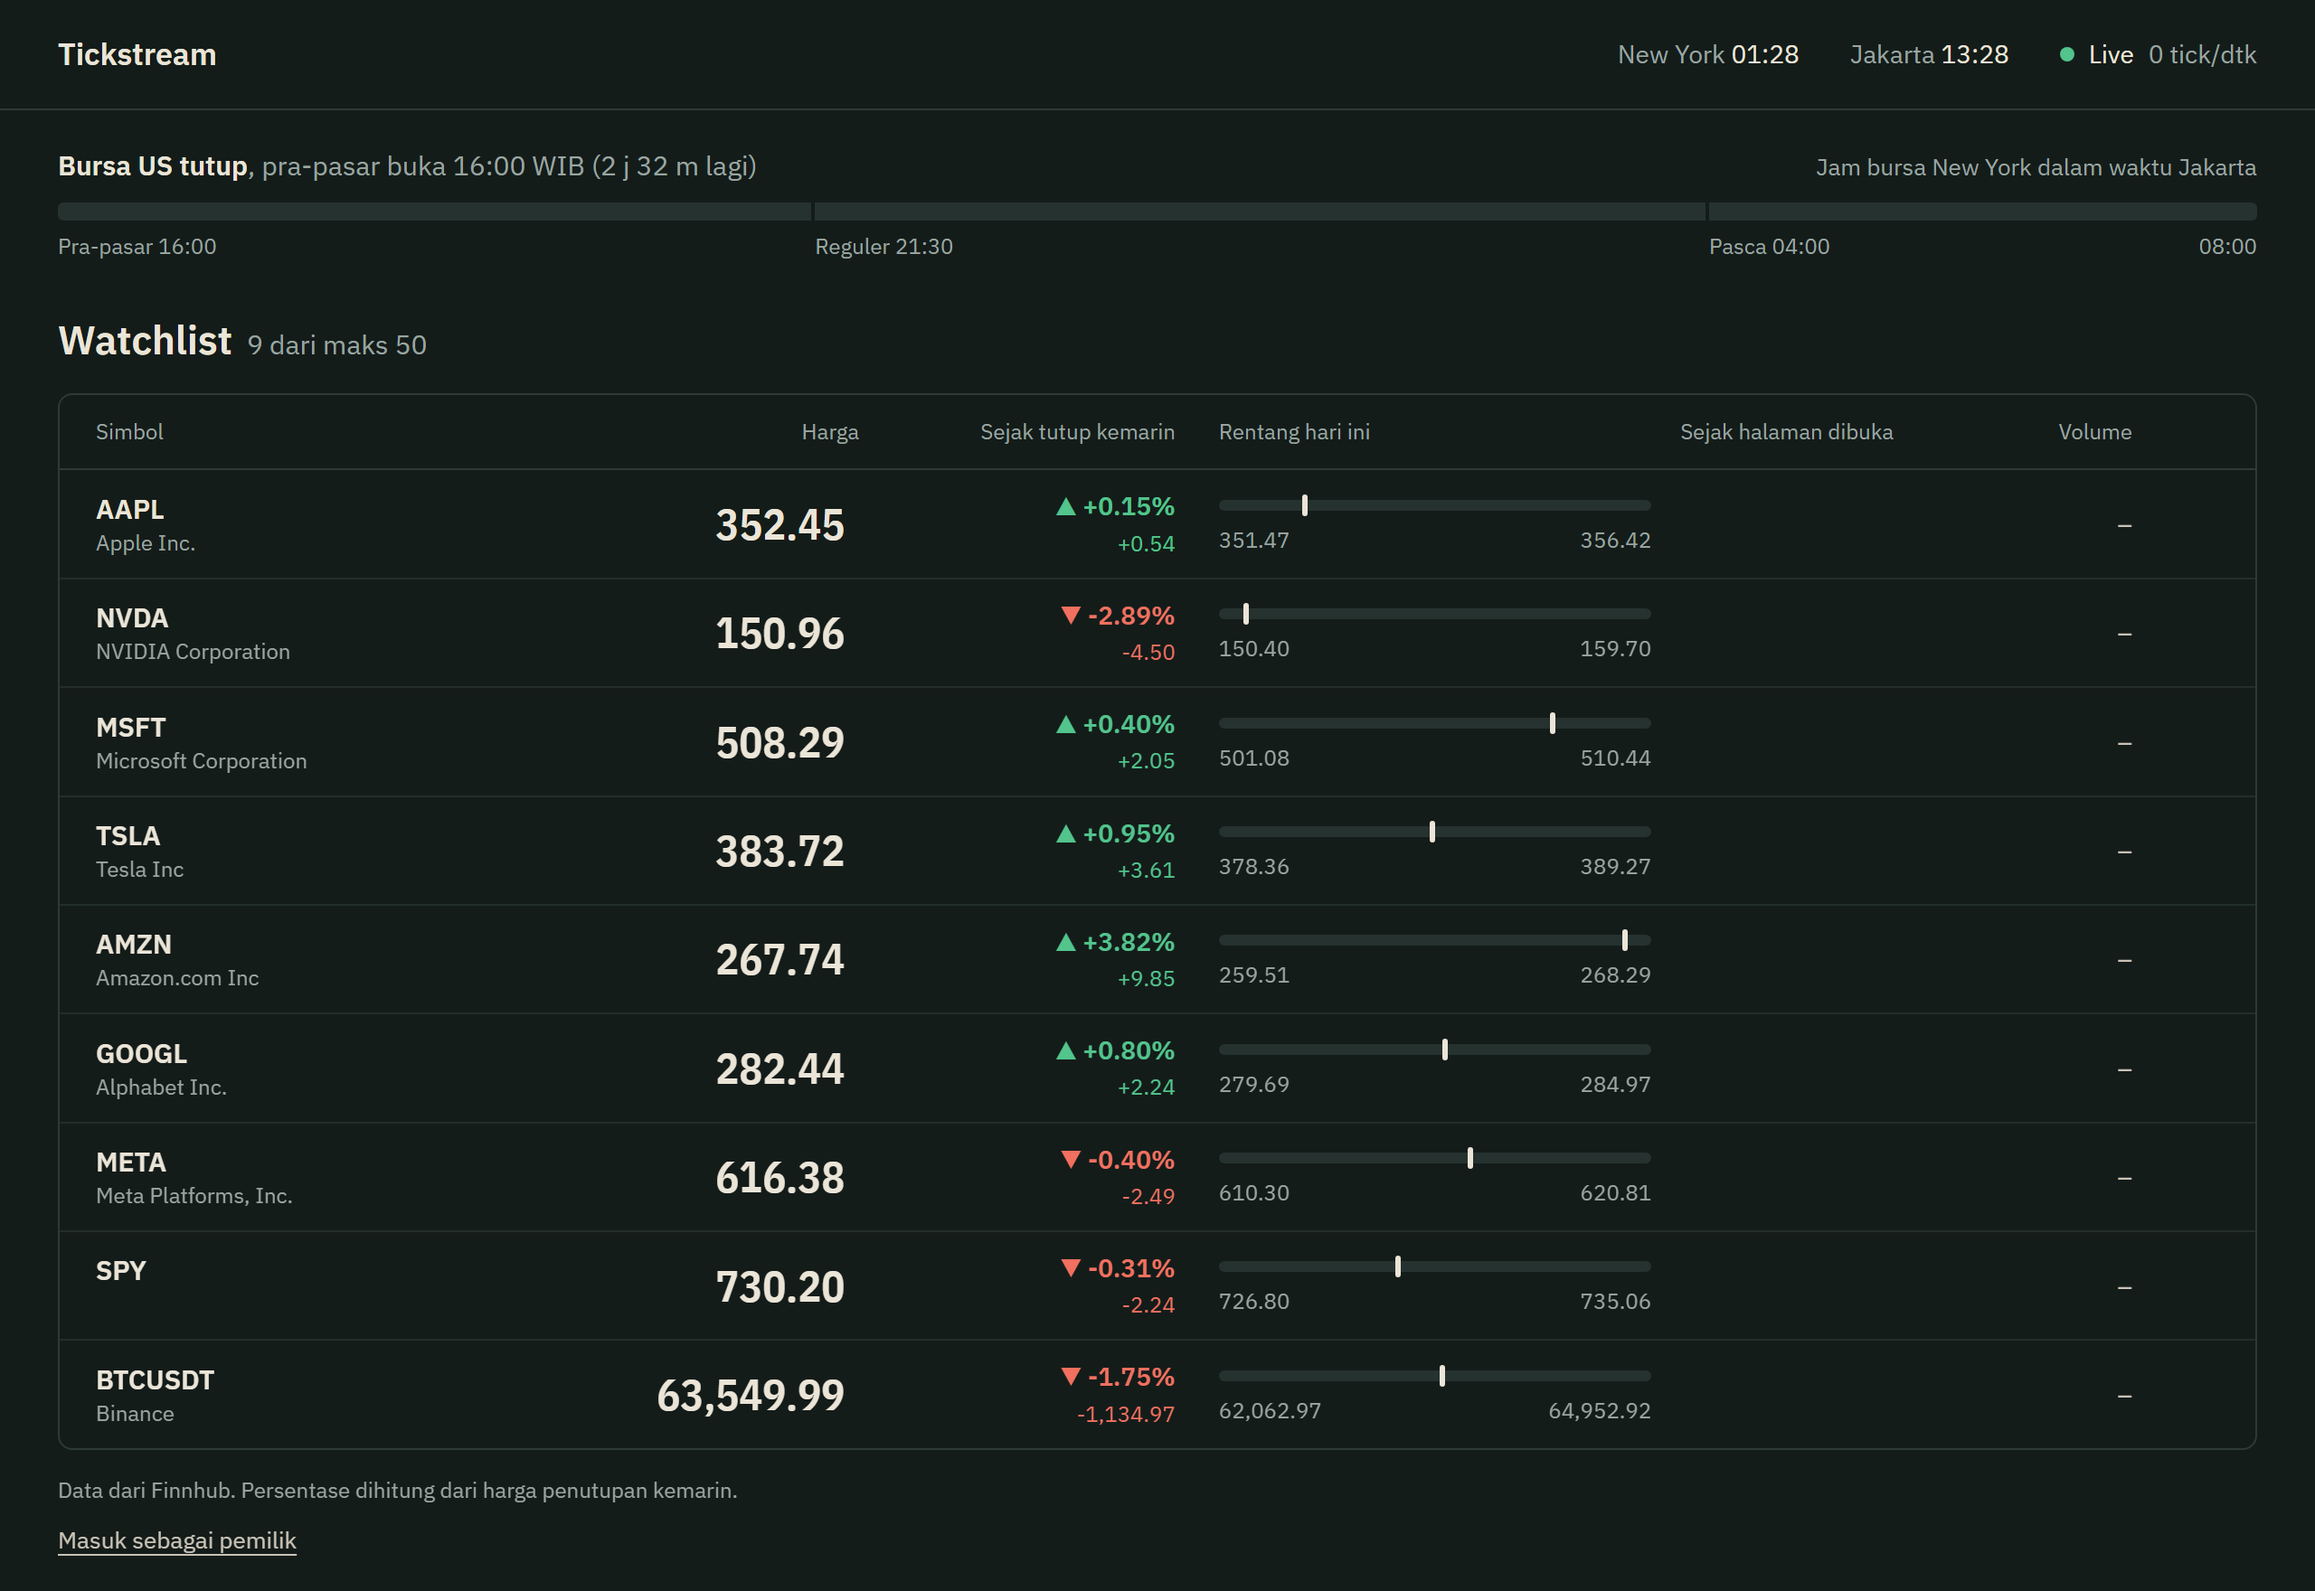
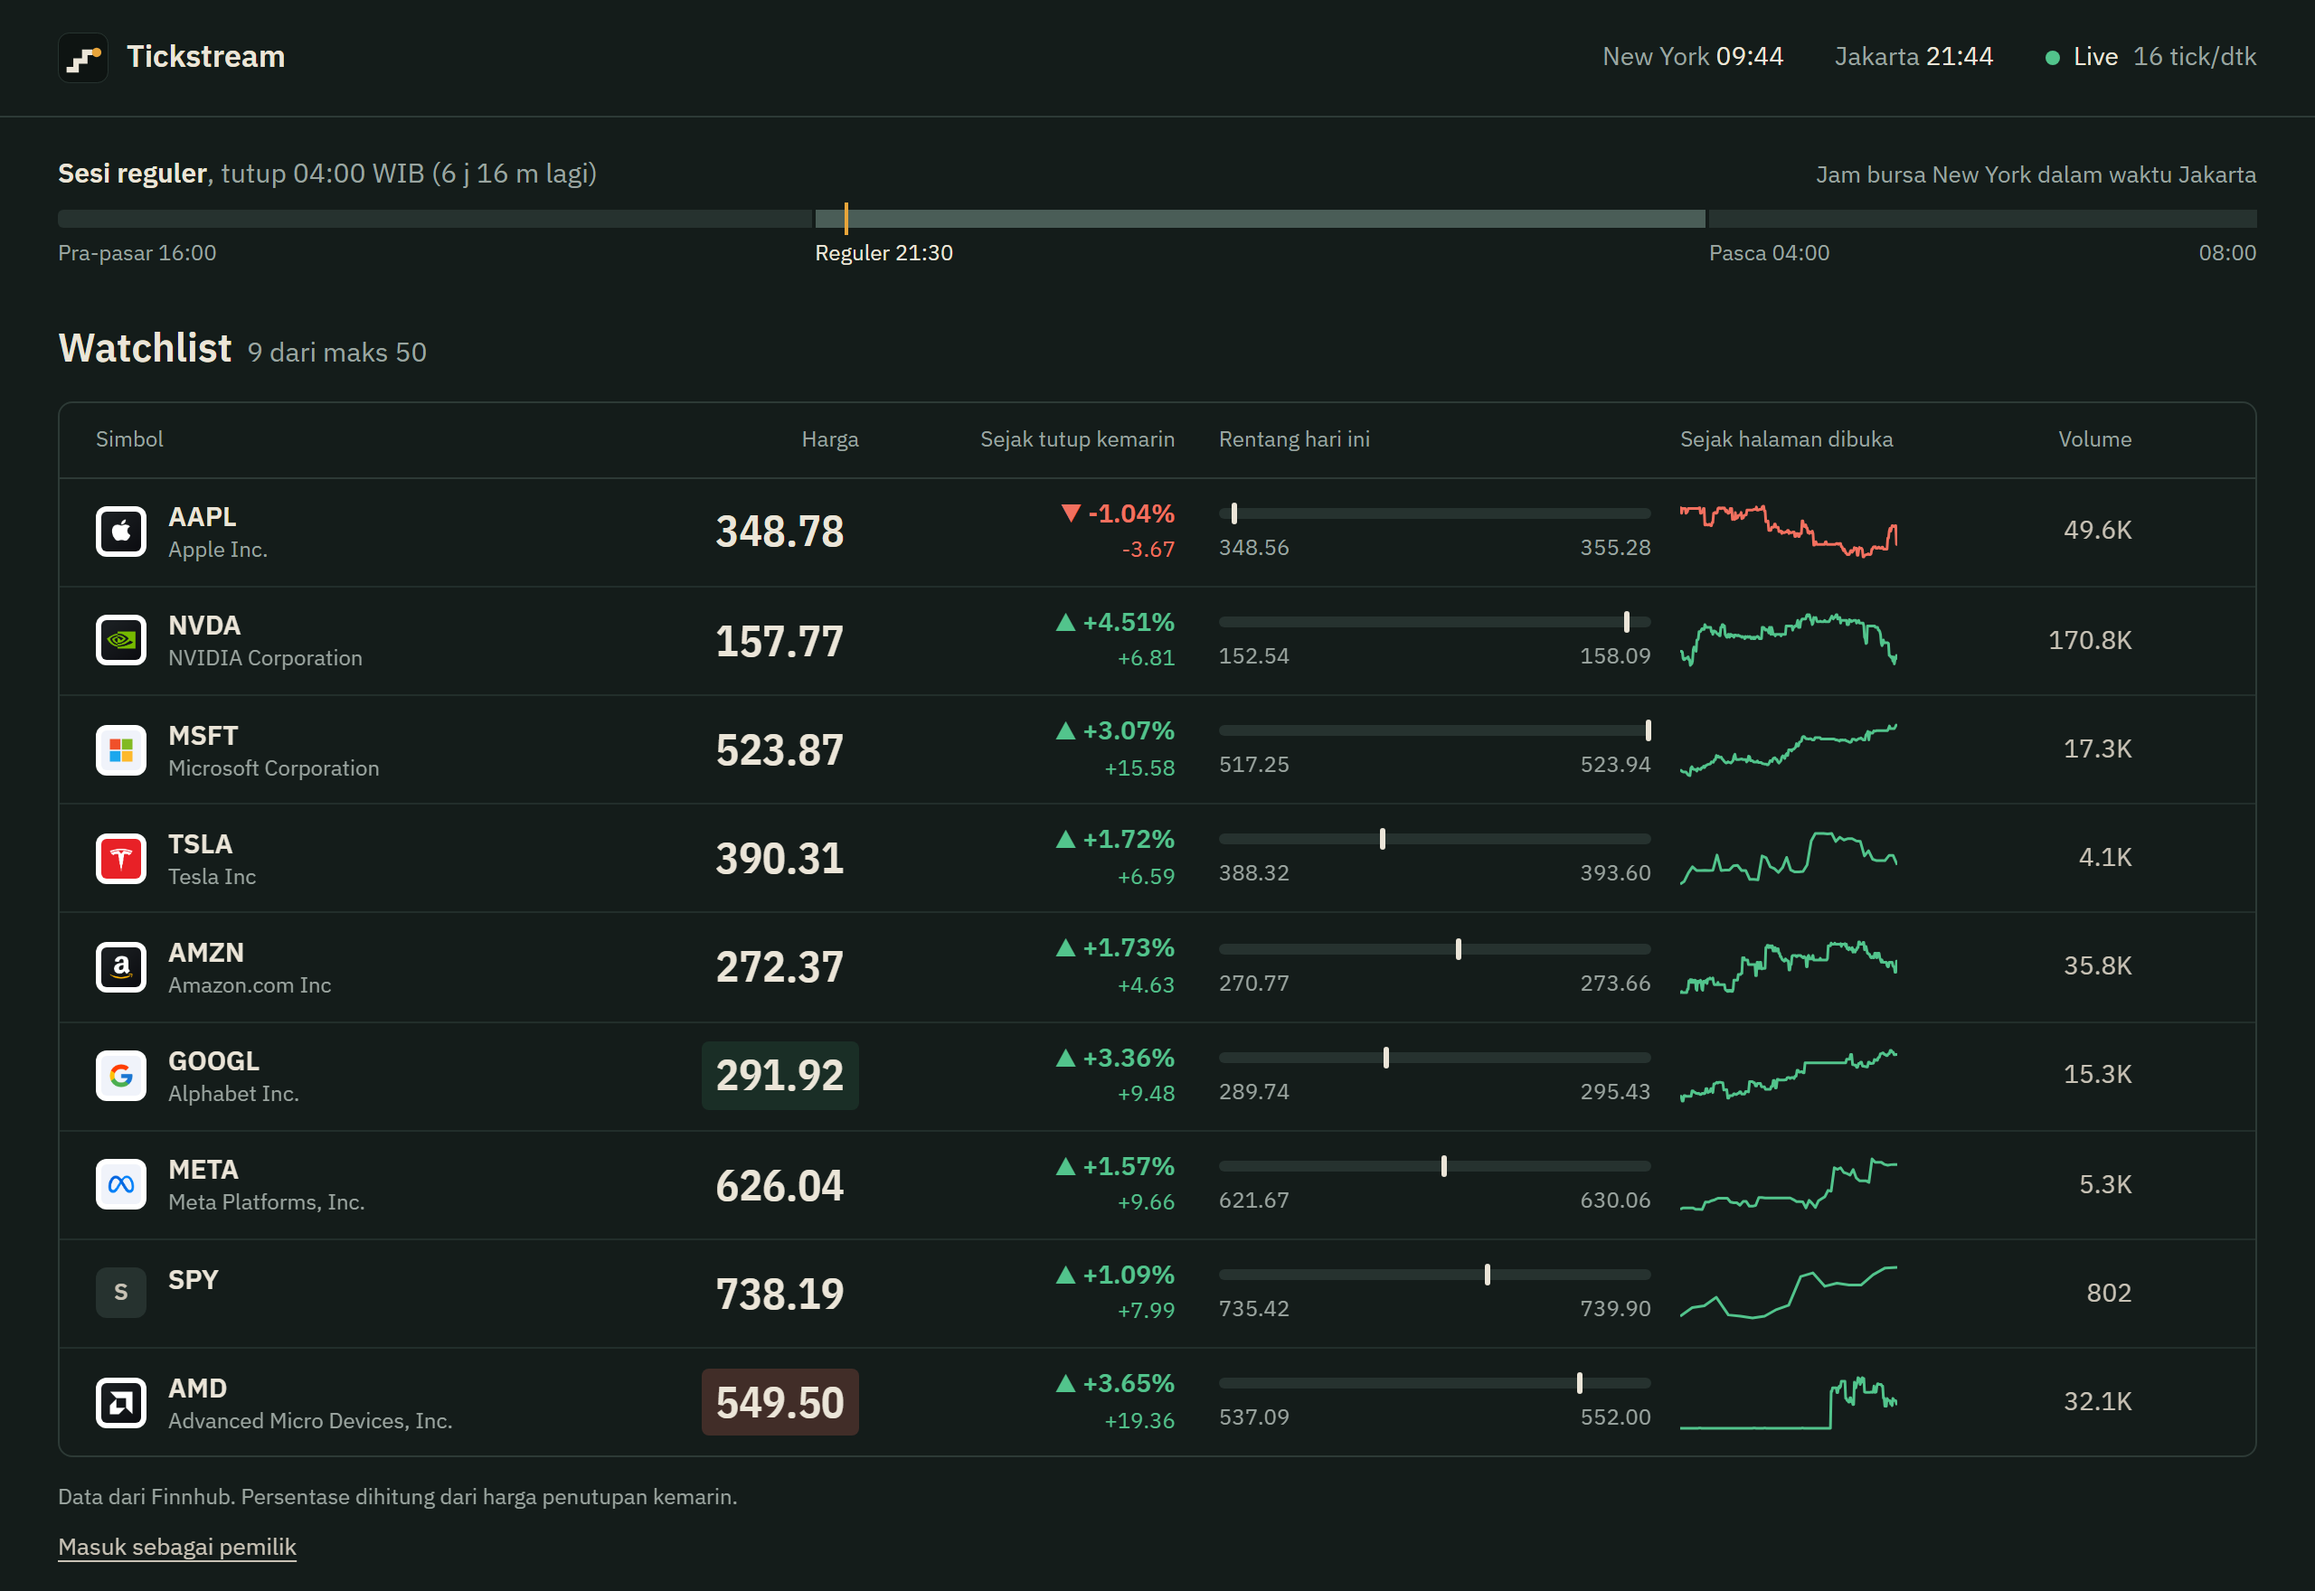
Retake the screenshot during the US session
The old one was taken with the market closed, so the sparklines and
volumes were empty. This one shows a few minutes of live trades, the
company logos and the new header logo.

Claude-Session: https://claude.ai/code/session_01SqsktYGqFFRqUUhoQw1Me6

diff --git a/web/src/index.css b/web/src/index.css
@@ -1,4 +1,4 @@
-/* Papan kutipan: satu baris per simbol. Desain: canvas "US Stock Live Redesign". */
+/* Papan kutipan: satu baris per simbol. Desain: canvas "Tickstream" (Claude Design). */
 
 :root {
   --bg: #141c1a;
